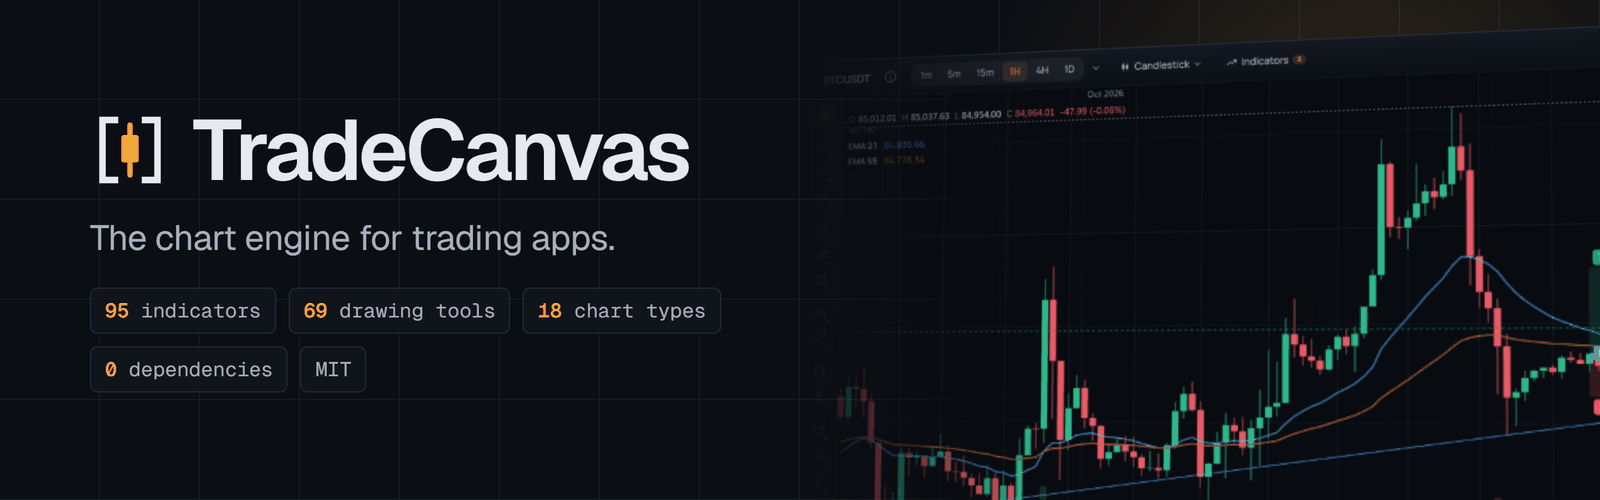
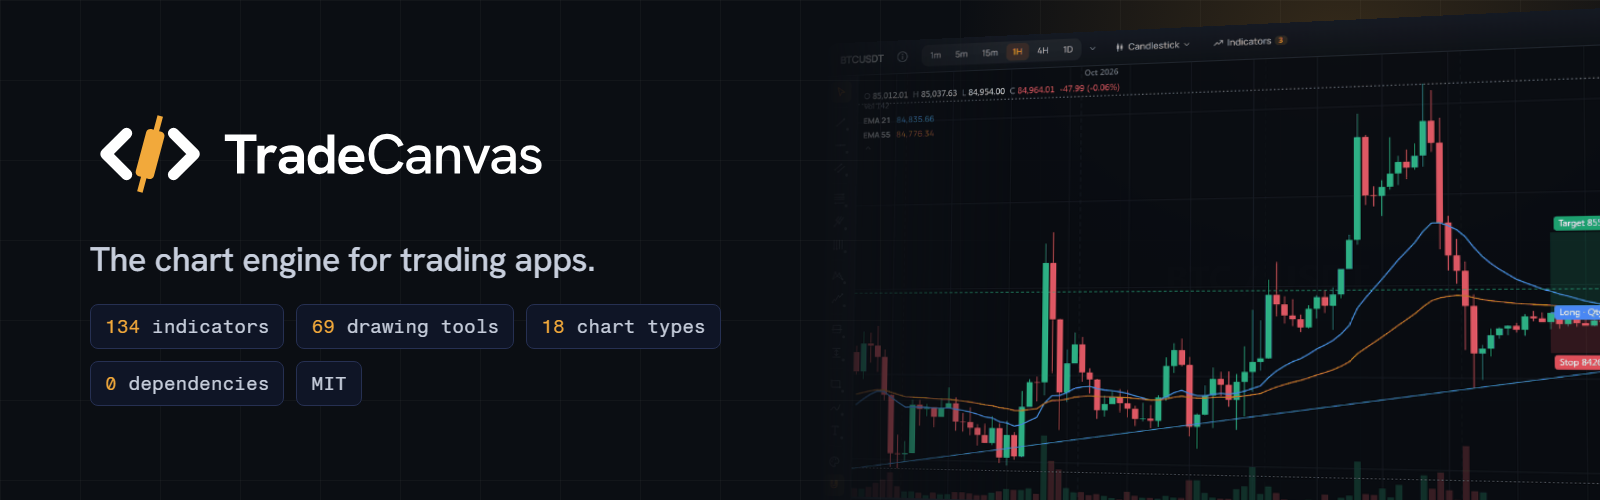
feat: the Slash identity
- A new mark: the slash of </> is a candle, leaning as code does. Angle
  brackets at 45 degrees, round caps; the candle leaning 15 degrees in amber;
  a small cut for 16-24 px.
- brand/: outlined masters (symbol, horizontal, mono, stacked, wordmark,
  reversed and one-colour), app icon, web icons and guidelines.
- The demo's logo, favicons (an SVG that turns white on dark tabs, an ICO,
  a touch icon, a manifest) and share image; the README banner and the
  social preview, with today's counts.

diff --git a/demo/src/lib/components/Logo.svelte b/demo/src/lib/components/Logo.svelte
@@ -1,23 +1,29 @@
 <script lang="ts">
   /**
-   * TradeCanvas mark: a candle between code brackets. Brackets follow the
-   * text colour, the candle takes the brand colour.
+   * TradeCanvas mark: the slash of </> is a candle. Brackets follow the text
+   * colour, the candle takes the brand colour. Up to 24 px the small cut draws
+   * heavier brackets and a wider candle (see brand/GUIDELINES.md).
    */
   let { size = 22, title }: { size?: number; title?: string } = $props();
+  const small = $derived(size <= 24);
 </script>
 
 <svg
   class="logo-mark"
   width={size}
   height={size}
-  viewBox="0 0 32 32"
+  viewBox="0 0 256 256"
   role={title ? 'img' : undefined}
   aria-label={title}
   aria-hidden={title ? undefined : 'true'}
 >
-  <path d="M10 4H5v24h5M22 4h5v24h-5" fill="none" stroke="currentColor" stroke-width="2.6" stroke-linecap="square" />
-  <path d="M16 6v20" stroke="var(--brand)" stroke-width="2.2" stroke-linecap="round" />
-  <rect x="12.5" y="10" width="7" height="11" rx="1" fill="var(--brand)" />
+  {#if small}
+    <path d="M82 88L42 128L82 168M174 88L214 128L174 168" fill="none" stroke="currentColor" stroke-width="32" stroke-linecap="round" stroke-linejoin="round" />
+    <path fill="var(--brand)" transform="rotate(15 128 128)" d="M119 40H137V72H144a10 10 0 0 1 10 10V174a10 10 0 0 1-10 10H137V216H119V184H112a10 10 0 0 1-10-10V82a10 10 0 0 1 10-10H119Z" />
+  {:else}
+    <path d="M78 84L34 128L78 172M178 84L222 128L178 172" fill="none" stroke="currentColor" stroke-width="24" stroke-linecap="round" stroke-linejoin="round" />
+    <path fill="var(--brand)" transform="rotate(15 128 128)" d="M122 44H134V76H139a9 9 0 0 1 9 9V171a9 9 0 0 1-9 9H134V212H122V180H117a9 9 0 0 1-9-9V85a9 9 0 0 1 9-9H122Z" />
+  {/if}
 </svg>
 
 <style>

diff --git a/demo/src/app.html b/demo/src/app.html
@@ -3,7 +3,10 @@
 <head>
   <meta charset="UTF-8" />
   <meta name="viewport" content="width=device-width, initial-scale=1.0" />
-  <link rel="icon" type="image/svg+xml" href="%sveltekit.assets%/favicon.svg" />
+  <link rel="icon" href="%sveltekit.assets%/favicon.ico" sizes="48x48" />
+    <link rel="icon" type="image/svg+xml" href="%sveltekit.assets%/favicon.svg" />
+    <link rel="apple-touch-icon" href="%sveltekit.assets%/apple-touch-icon.png" />
+    <link rel="manifest" href="%sveltekit.assets%/site.webmanifest" />
   <meta name="theme-color" content="#0b0e13" />
   <link rel="preconnect" href="https://fonts.googleapis.com" />
   <link rel="preconnect" href="https://fonts.gstatic.com" crossorigin />

diff --git a/brand/GUIDELINES.md b/brand/GUIDELINES.md
@@ -1,0 +1,82 @@
+# TradeCanvas — brand guidelines (v1)
+
+**The mark: Slash.** The slash of `</>` is a candle, leaning as code does: the sign of code, made of the market.
+Developers read code, traders read a candle — both in one sign.
+
+## Files
+
+| File | Use |
+|---|---|
+| `horizontal.svg` / `-reversed` / `-black` | The master: symbol + wordmark. Light, dark and one-colour backgrounds. |
+| `horizontal-mono.svg` / `-reversed` | Developer channels: README, npm, terminal, docs headers. |
+| `stacked.svg` / `-reversed` | Square spaces: social cards, slides, stickers. |
+| `symbol.svg` / `-reversed` / `-black` | The symbol alone, from 32 px up. |
+| `symbol-small.svg` / `-reversed` | 16–24 px: heavier brackets, wider candle. Favicons, tabs, small UI. |
+| `wordmark.svg` | The name alone, where the symbol already shows nearby. |
+| `app-icon.svg`, `maskable.svg` | Ink tile with the reversed small cut. |
+| `web/` | `favicon.svg` (its brackets turn white on dark tabs), `favicon.ico` and PNG icons on an ink tile. |
+
+All masters are outlined: no live text, no rasters, no filters.
+
+## Construction
+
+- 256 × 256 grid. Angle brackets at exactly 45°, stroke 24, round caps and joins (small cut: 32).
+- The candle: body 40 × 104, corner radius 9, wick 12, rotated 15° about the centre (small cut: body 52, wick 18).
+- Wordmark: Hanken Grotesk, **Trade** in Bold (700), Canvas in Medium (500), tracking −3.5/120, kerned by hand
+  (Tr, Ca, va, av). Mono wordmark: Fragment Mono Regular, lowercase, tracking −2/104.
+- Lockup: the wordmark's cap height is centred on the symbol's middle; the gap is 30/256 of the symbol's height.
+
+## Clear space and minimum size
+
+- **Clear space:** keep a margin of **x** on every side, where x is the width of the candle body at the size used
+  (≈ 16 % of the symbol's height). Nothing else enters it.
+- **Minimum size:** symbol 16 px (use the small cut up to 24 px); horizontal lockup 20 px tall on screen,
+  8 mm in print; stacked lockup 48 px tall.
+
+## Colour
+
+| | HEX | RGB | CMYK (approx.) | Use |
+|---|---|---|---|---|
+| **Ink** | `#0B1020` | 11 16 32 | 66 50 0 87 | Brackets, wordmark, dark backgrounds |
+| **Amber** | `#F2A93B` | 242 169 59 | 0 30 76 5 | The candle. Never for body text on white (contrast 2.0:1) |
+| Amber text | `#8A5A10` | 138 90 16 | 0 35 88 46 | Amber-family text on light backgrounds (AA) |
+| White | `#FFFFFF` | 255 255 255 | 0 0 0 0 | Reversed brackets and wordmark |
+
+CMYK values are conversions; proof them before print, and match a Pantone on a physical swatch book (start near
+Pantone 1365 C for Amber).
+
+**Approved backgrounds:** white and light greys (master); Ink and other dark solids (reversed); a photo only where
+it is calm behind the mark (use the reversed or black version on a scrim).
+
+### The product family (proposed)
+
+Keep the brackets and the ink; the candle's colour names the product, so the family reads as one toolkit.
+
+| Product | Accent |
+|---|---|
+| Chart (the toolkit itself) | Amber `#F2A93B` |
+| Grid (bo-grid) | Jade `#12B886` |
+| Orders | Coral `#F25C54` |
+| Flow | Violet `#7C5CFF` |
+
+## Typography
+
+- **Hanken Grotesk** (headings, UI, the wordmark) and **Fragment Mono** (code, figures, developer surfaces).
+  Both under the SIL Open Font License, which allows logo use.
+
+## Don't
+
+- Don't straighten the candle, change its angle, or swap it for another shape in the master mark.
+- Don't recolour the brackets amber or the candle ink (except in the one-colour versions).
+- Don't set the wordmark in another typeface, or retype it: use the outlined files.
+- Don't stretch, outline, add shadows or gradients, or place the master on busy or mid-tone backgrounds.
+- Don't use the regular symbol below 24 px: use the small cut.
+
+## The name and the mark
+
+The MIT license covers the code. Use the name and the mark to refer to TradeCanvas, not to suggest that something else is it or is endorsed by it.
+
+## Open items
+
+- A trademark search before registering the mark (no clearance has been done).
+- Product marks for Grid, Orders and Flow, drawn from the family above.
